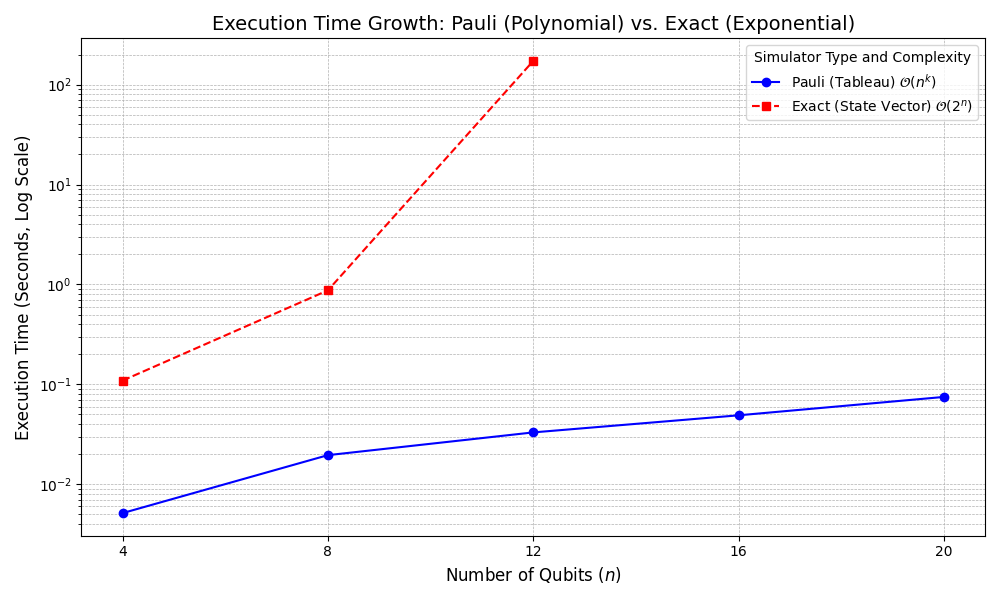
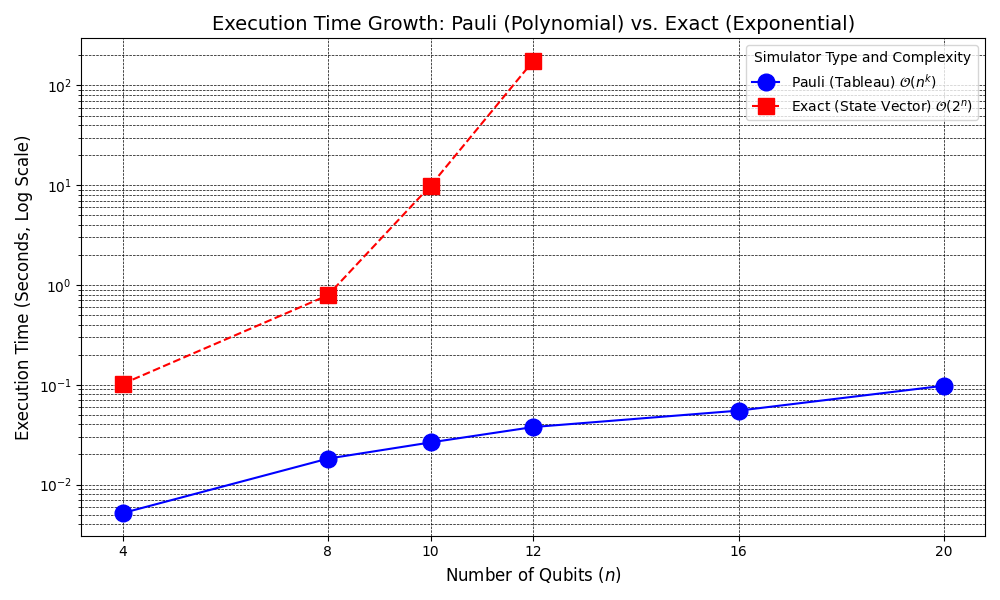
Updated Visualizations and Added Functions to Calculate Memory of Circuit States.

Changed region(s): [[0.031, 0.09, 0.992, 0.87], [0.403, 0.9, 0.434, 0.93]]

diff --git a/src/benchmark_and_plots.py b/src/benchmark_and_plots.py
@@ -11,7 +11,7 @@ from src.gates.registry import GateRegistry
 
 gate_registry = GateRegistry()
 
-QUBIT_RANGE = [4, 8, 12, 16, 20] 
+QUBIT_RANGE = [4, 8, 10, 12, 16, 20] 
 CIRCUIT_DEPTH = 50
 FAILED = -1.0
 
@@ -69,7 +69,7 @@ def run_benchmark(qubits: int, circuit: List[Tuple], simulator_class: type, name
             run_time = end_time - start_time
 
         elif name == "Exact (State Vector)":
-            sim = simulator_class(qubits)
+            sim = simulator_class(qubits, num_cbits=qubits)
             start_time = time.perf_counter()
 
             for gate, c, t in circuit:
@@ -82,7 +82,8 @@ def run_benchmark(qubits: int, circuit: List[Tuple], simulator_class: type, name
                     sim.add_gate(gate_registry.get(gate), targets=c)
             
             sim.execute()
-            sim.measure_all()
+            for i in range(qubits):
+                sim.measure(i, i)
             
             end_time = time.perf_counter()
             run_time = end_time - start_time
@@ -95,7 +96,7 @@ def run_benchmark(qubits: int, circuit: List[Tuple], simulator_class: type, name
          success = False
     
     current_rss = measure_peak_rss(os.getpid())
-    peak_rss = max(peak_rss, current_rss)
+    peak_rss = sim.get_state_memory_mb()
     
     if not success:
         run_time = FAILED
@@ -124,8 +125,15 @@ def collect_data():
         exact_results = run_benchmark(n, circuit, QuantumCircuit, "Exact (State Vector)")
 
         print(f"  Pauli Time: {pauli_results['time_s']:.4f} s | Exact Time: {exact_results['time_s']:.4f} s")
-        print(f"  Pauli Mem: {pauli_results['peak_rss_mb']:.2f} MB | Exact Mem: {exact_results['peak_rss_mb']:.2f} MB")
+        print(f"  Pauli Mem: {pauli_results['peak_rss_mb']:.5f} MB | Exact Mem: {exact_results['peak_rss_mb']:.5f} MB")
 
+        time_diff = exact_results['time_s'] - pauli_results['time_s'] if exact_results['time_s'] != FAILED else FAILED
+        mem_diff = exact_results['peak_rss_mb'] - pauli_results['peak_rss_mb'] if exact_results['peak_rss_mb'] != FAILED else FAILED
+
+        time_diff_percent = (time_diff / exact_results['time_s'] * 100) if exact_results['time_s'] != FAILED else FAILED
+        mem_diff_percent = (mem_diff / exact_results['peak_rss_mb'] * 100) if exact_results['peak_rss_mb'] != FAILED else FAILED
+
+        print(f"  Time Diff: {time_diff:.4f} s ({time_diff_percent:.2f}%) | Mem Diff: {mem_diff:.2f} MB ({mem_diff_percent:.2f}%)")
 
         results.append({
             'Qubits': n,
@@ -146,10 +154,15 @@ def plot_results(df: pd.DataFrame):
     df_plot = df.replace(FAILED, np.nan)
     
     plt.figure(figsize=(10, 6))
+    plt.rcParams["grid.color"] = "black"
+    plt.rcParams["grid.linestyle"] = "--"
+    plt.rcParams["grid.linewidth"] = 1.5
+    plt.rcParams["grid.alpha"] = 1.0
 
-    plt.plot(df_plot['Qubits'], df_plot['Pauli_Time_s'], marker='o', label='Pauli (Tableau) $\mathcal{O}(n^k)$', linestyle='-', color='blue')
-    plt.plot(df_plot['Qubits'], df_plot['Exact_Time_s'], marker='s', label='Exact (State Vector) $\mathcal{O}(2^n)$', linestyle='--', color='red')
+    plt.plot(df_plot['Qubits'], df_plot['Pauli_Time_s'], marker='o', label='Pauli (Tableau) $\mathcal{O}(n^k)$', linestyle='-', color='blue', markersize=12)
+    plt.plot(df_plot['Qubits'], df_plot['Exact_Time_s'], marker='s', label='Exact (State Vector) $\mathcal{O}(2^n)$', linestyle='--', color='red', markersize=12)
 
+    # plt.grid(visible=True, color='black', linestyle='-', linewidth=1.5, alpha=1.0) 
     plt.yscale('log')
     plt.title('Execution Time Growth: Pauli (Polynomial) vs. Exact (Exponential)', fontsize=14)
     plt.xlabel('Number of Qubits ($n$)', fontsize=12)
@@ -163,9 +176,10 @@ def plot_results(df: pd.DataFrame):
 
     plt.figure(figsize=(10, 6))
 
-    plt.plot(df_plot['Qubits'], df_plot['Pauli_Mem_MB'], marker='o', label='Pauli (Tableau) $\mathcal{O}(n^2)$', linestyle='-', color='blue')
-    plt.plot(df_plot['Qubits'], df_plot['Exact_Mem_MB'], marker='s', label='Exact (State Vector) $\mathcal{O}(2^n)$', linestyle='--', color='red')
+    plt.plot(df_plot['Qubits'], df_plot['Pauli_Mem_MB'], marker='o', label='Pauli (Tableau) $\mathcal{O}(n^2)$', linestyle='-', color='blue', markersize=12)
+    plt.plot(df_plot['Qubits'], df_plot['Exact_Mem_MB'], marker='s', label='Exact (State Vector) $\mathcal{O}(2^n)$', linestyle='--', color='red', markersize=12)
 
+    # plt.grid(visible=True, color='black', linestyle='--', linewidth=1.5, alpha=1.0) 
     plt.yscale('log')
     plt.title('Peak Memory Growth: Pauli (Polynomial) vs. Exact (Exponential)', fontsize=14)
     plt.xlabel('Number of Qubits ($n$)', fontsize=12)

diff --git a/src/visualization_dump.py b/src/visualization_dump.py
@@ -28,15 +28,20 @@ def create_memory_context_plot():
 
     # 2. Define Real-World Memory Milestones (in Gigabytes)
     milestones = [
-        (128, 'High-End Workstation (128 GB)', 'b', 26),
-        (4096, 'Large Enterprise Server (4 TB)', 'g', 38),
-        (5500000, 'El Capitan Total RAM (~5.5 PB)', 'r', 48) 
+        (128, 'High-End Workstation (128 GB)', 'b', 16),
+        (4096, 'Large Enterprise Server (4 TB)', 'g', 22),
+        (5500000, 'El Capitan Total RAM (~5.5 PB)', '#a40014', 30) 
     ]
     
     # ======================================================================
     # A. LOG SCALE PLOT (Mathematically Correct for Comparison)
     # ======================================================================
     plt.figure(figsize=(12, 8))
+
+    plt.rcParams["grid.color"] = "black"
+    plt.rcParams["grid.linestyle"] = "-"
+    plt.rcParams["grid.linewidth"] = 1.5
+    plt.rcParams["grid.alpha"] = 1.0
     
     plt.plot(qubits, exact_memory_gb, 
              label=r'Exact Memory ($\mathcal{O}(2^n)$)', 
@@ -48,7 +53,7 @@ def create_memory_context_plot():
              
     # Add Milestones
     for mem_gb, label, color, n_qubits_approx in milestones:
-        plt.axhline(y=mem_gb, color=color, linestyle=':', linewidth=1.5, alpha=0.7)
+        plt.axhline(y=mem_gb, color=color, linestyle=':', linewidth=2.0, alpha=0.9)
         
         if mem_gb >= 1024**2: 
             label_text = label.replace("PB", f"({mem_gb/1024**2:.1f} PB)")
@@ -58,7 +63,7 @@ def create_memory_context_plot():
             label_text = label
             
         plt.text(n_qubits_approx - 2, mem_gb * 1.5, label_text, 
-                 color=color, fontsize=10, verticalalignment='bottom')
+                 color=color, fontsize=15, verticalalignment='bottom')
         
     # Final Plot Aesthetics (Log)
     plt.title(r'Memory Wall: Exponential vs. Polynomial Scaling (Log Scale)', fontsize=16)
@@ -83,7 +88,12 @@ def create_memory_context_plot():
     linear_exact_memory_gb = (BYTES_PER_COMPLEX * 2**linear_qubits) / GB_IN_BYTES
     linear_pauli_memory_gb = (4 * linear_qubits**2 + TABLEAU_OVERHEAD_BYTES) / GB_IN_BYTES
 
-    plt.figure(figsize=(10, 6))
+    plt.figure(figsize=(15, 6))
+
+    plt.rcParams["grid.color"] = "black"
+    plt.rcParams["grid.linestyle"] = "-"
+    plt.rcParams["grid.linewidth"] = 1.5
+    plt.rcParams["grid.alpha"] = 1.0
     
     plt.plot(linear_qubits, linear_exact_memory_gb, 
              label=r'Exact Simulator Memory ($\mathcal{O}(2^n)$)', 

diff --git a/src/pauli_simulator/Tableau_Ver2.py b/src/pauli_simulator/Tableau_Ver2.py
@@ -389,6 +389,20 @@ class Tableau:
 
         return self._metrics.copy()
     
+    def get_state_memory_mb(self) -> float:
+        """
+        Calculates the memory used by the Tableau arrays (O(n^2)).
+        """
+        
+        total_bytes = (self._x.nbytes + 
+                       self._z.nbytes + 
+                       self._r.nbytes)
+        
+        if self.num_cbits > 0:
+            total_bytes += self._cbits.nbytes
+            
+        return total_bytes / (1024 * 1024)
+    
     def print_state(self):
         """Prints the full (X | Z | R) stabilizer and destabilizer matrix."""
         print("-" * 40)

diff --git a/src/QuantumCircuit.py b/src/QuantumCircuit.py
@@ -352,6 +352,16 @@ class QuantumCircuit:
             if len(probs_nonzero) == 0:
                 return 0.0
             return -np.sum(probs_nonzero * np.log2(probs_nonzero))
+        
+    def get_state_memory_mb(self) -> float:
+        """
+        Calculates the memory used EXCLUSIVELY by the state vector array (O(2^n)).
+        This bypasses the Python process overhead.
+        """
+        if self.use_density_matrix:
+            return self.state.nbytes / (1024 * 1024)
+        else:
+            return self.state.nbytes / (1024 * 1024)
 
     def get_circuit_depth(self):
         """

diff --git a/src/output_format.py b/src/output_format.py
@@ -658,7 +658,7 @@ class TableauOutputFormatter:
         
         memory = metrics['memory']
         lines.append("\n--- Memory (MB) ---")
-        lines.append(f"Tableau theoretical size: {memory['tableau_size_mb']:.4f}")
+        lines.append(f"Tableau theoretical size: {memory['tableau_size_mb']:.5f}")
         lines.append(f"Initial (RSS):          {memory['initial_mb']:.2f}")
         lines.append(f"Final (RSS):            {memory['final_mb']:.2f}")
         lines.append(f"Peak (RSS):             {memory['peak_mb']:.2f}")
